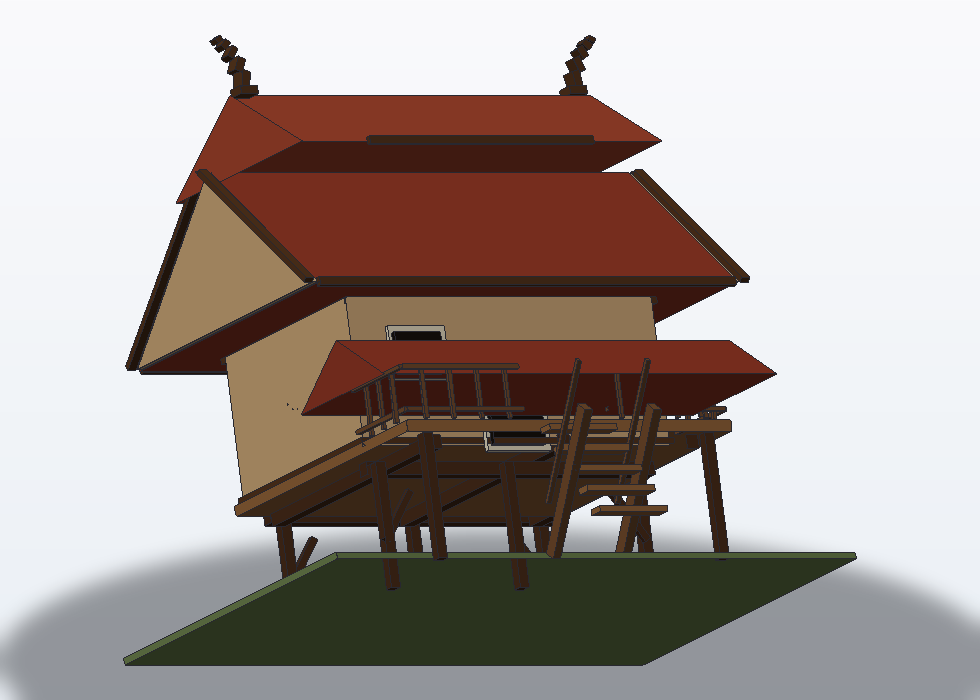
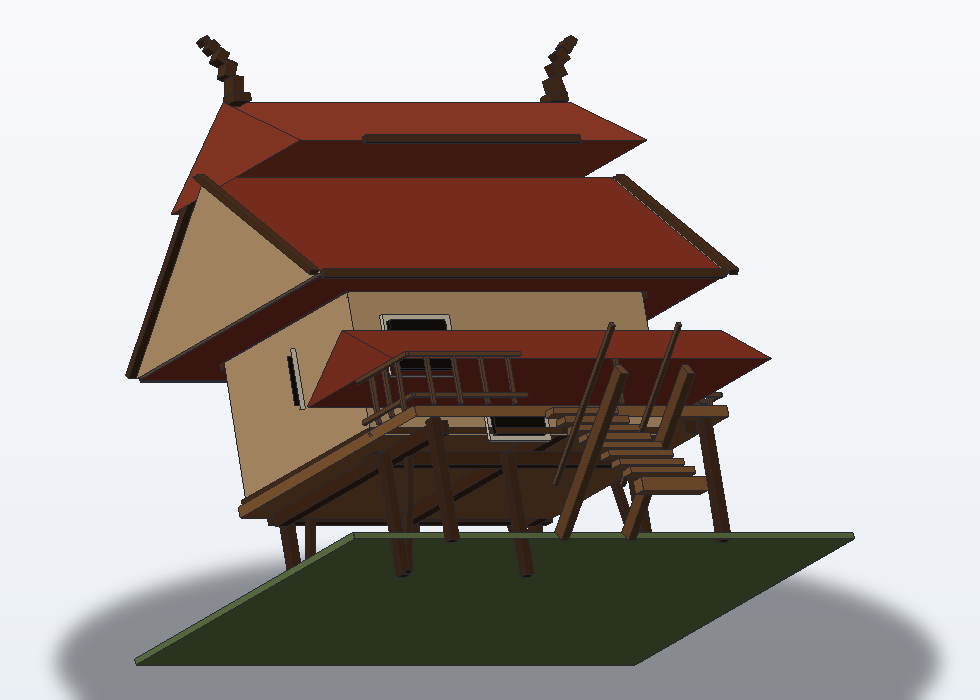
v1.0.5 — .obj มาตรฐาน (Y-up + Kd linear) + แก้บันไดที่ดูพัง
ผู้ใช้เจอตอนนำเข้า Blender จริง 2 เรื่อง (ยืนยันว่าถูกต้องทั้งคู่):
1. โมเดลนอนตะแคง — ไฟล์เป็น Z-up แต่มาตรฐาน OBJ ถือ Y-up
   → write_obj แปลง (x,y,z)→(x,z,-y) เป็นค่าปริยาย (up="Z" ถ้าต้องการไบต์ดิบ)
2. สีออกชมพูซีด — Kd เขียนเป็น sRGB แต่ Blender ถือว่า linear
   → แปลง sRGB→linear ก่อนเขียน (linear_colors=False ถ้าต้องการไบต์ดิบ)

บันได (วัดแล้วเจอบั๊ก 2 จุดของเราเอง):
- มุมไม้ข้างกลับเครื่องหมาย → เอียงสวนทางขั้นบันได
- 5 ขั้น × 0.33 = ชัน 53° (เหมือนบันไดพัง) → 9 ขั้น × 0.30 = 42.8° (run 2.40/rise 2.23)
- ขั้นล่างสุดลอย 7.8 ซม. → หนาถึงพื้น z=0
- ไม้ค้ำยัน: พาดจากโคนเสาถึงใต้คานจริง · หน้าต่าง 19%×34% ของผนัง · ช่อฟ้าหนาขึ้น

ทดสอบ: mesh_lib 67→70 (Y-up/linear + สวิตช์ปิด) · thai_house 65 (อ้างจำนวนขั้นจากปริยาย)
รูปคู่มือ 05/06/09 สร้างใหม่จากโมเดลที่แก้แล้ว · ชุดทดสอบ 11 ชุด · 800 ข้อ ผ่านทั้งหมด

diff --git a/tools/thai_house_builder.py b/tools/thai_house_builder.py
@@ -40,7 +40,7 @@ SPEC = {
     "veranda_depth": 1.80,
     "veranda_roof_height": 0.95,
     "rail_height": 0.95,
-    "stair_steps": 5,
+    "stair_steps": 9,
     "stair_width": 1.40,
     "ground": True,           # แผ่นฐานดินใต้เรือน
     # ── ความละเอียด ──
@@ -109,14 +109,20 @@ def build(spec):
         add(f"post_veranda_{i}", ml.chamfered_box(post / 2, post / 2, ph / 2, ch * 0.4,
                                                   (x, -D / 2 - vd * 0.92, ph / 2)), C["post"])
     if spec["braces"]:
-        bl = math.hypot(post * 2.6, ph * 0.42)
+        # ⚠ ไม้ค้ำยันต้อง "พาดของจริง": โคนจรดโคนเสา ปลายบนจรดใต้คาน
+        #    เดิมใช้ความยาวลอย ๆ + วางกลางอากาศ → ปลายทั้งสองข้างไม่แตะอะไรเลย
+        run_x = post * 2.2                      # ระยะราบ (จากเสาเข้าหาศูนย์กลาง)
+        run_z = ph - 0.16                       # ระยะดิ่ง (จากโคนเสาถึงใต้คาน)
+        bl = math.hypot(run_x, run_z)
+        ang = math.degrees(math.atan2(run_x, run_z))   # เอียงจากแนวตั้ง
         for j, y in enumerate(ys):
             for s in (-1, 1):
-                # เอียงในระนาบ X-Z → ต้องหมุนรอบแกน Y (ไม่ใช่ round X)
+                # เอียงในระนาบ X-Z → หมุนรอบแกน Y
                 add(f"brace_{j}_{'L' if s < 0 else 'R'}",
                     ml.translate(ml.rotate(ml.chamfered_box(post * 0.34, post * 0.34, bl / 2,
-                                                            ch * 0.3), ry=-s * 34),
-                                 s * (W * 0.42 - post * 1.4), y, ph * 0.58), C["post"])
+                                                            ch * 0.3), ry=-s * ang),
+                                 s * (W * 0.42 - post * 0.6 - run_x / 2), y,
+                                 0.08 + run_z / 2), C["post"])
 
     # ── คานรับพื้น ──
     beam_w = post * 1.3
@@ -198,8 +204,8 @@ def build(spec):
             for k in range(segs):
                 tt = k / (segs - 1)
                 ang = s * (10.0 + 46.0 * tt)             # 10° → 56°
-                seg_len = 0.30 - 0.045 * k
-                w = 0.075 - 0.007 * k
+                seg_len = 0.34 - 0.048 * k
+                w = 0.105 - 0.009 * k
                 dx = math.sin(math.radians(ang)) * seg_len * 0.5
                 dz = math.cos(math.radians(ang)) * seg_len * 0.5
                 add(f"chofa_{tag}_{k}", ml.translate(
@@ -214,17 +220,17 @@ def build(spec):
                                  (0.0, -D / 2 - 0.06, floor_top + door_h / 2)), C["opening"])
     add("door_frame", ml.chamfered_box(door_w / 2 + 0.11, 0.05, door_h / 2 + 0.11, ch * 0.4,
                                        (0.0, -D / 2 - 0.035, floor_top + door_h / 2)), C["frame"])
-    win_w, win_h = W * 0.15, wh * 0.28
+    win_w, win_h = W * 0.19, wh * 0.34
     for s, tag in ((-1, "L"), (1, "R")):
-        add(f"window_front_frame_{tag}", ml.chamfered_box(win_w / 2 + 0.10, 0.05,
-                                                          win_h / 2 + 0.10, ch * 0.4,
+        add(f"window_front_frame_{tag}", ml.chamfered_box(win_w / 2 + 0.11, 0.05,
+                                                          win_h / 2 + 0.11, ch * 0.4,
                                                           (s * W * 0.29, -D / 2 - 0.035,
                                                            floor_top + wh * 0.62)), C["frame"])
         add(f"window_front_{tag}", ml.chamfered_box(win_w / 2, 0.05, win_h / 2, 0.02,
                                                     (s * W * 0.29, -D / 2 - 0.06,
                                                      floor_top + wh * 0.62)), C["opening"])
-        add(f"window_side_frame_{tag}", ml.chamfered_box(0.05, win_w / 2 + 0.10,
-                                                         win_h / 2 + 0.10, ch * 0.4,
+        add(f"window_side_frame_{tag}", ml.chamfered_box(0.05, win_w / 2 + 0.11,
+                                                         win_h / 2 + 0.11, ch * 0.4,
                                                          (s * (W / 2 + 0.035), D * 0.12,
                                                           floor_top + wh * 0.62)), C["frame"])
         add(f"window_side_{tag}", ml.chamfered_box(0.05, win_w / 2, win_h / 2, 0.02,
@@ -268,23 +274,34 @@ def build(spec):
     steps = int(spec["stair_steps"])
     sw = float(spec["stair_width"])
     step_h = ph / steps
-    step_d = 0.33
+    step_d = 0.30
     run = step_d * steps
     y_top = ry - 0.22          # เริ่มบันไดนอกราวระเบียง
+    # ⚠ slanted_slab หมุนรอบแกน X และวัดมุมจาก "แนวนอน" — ang จึงต้องเป็น
+    #    atan2(ph, run) ตรง ๆ และต้องหมุนเป็น +ang เพื่อให้ปลาย +Y (ด้านบน) อยู่สูง
+    #    (เดิมใช้ -ang → ไม้ข้างเอียงลงสวนทางขั้นบันได ดูเหมือนบันไดพัง)
     ang = math.degrees(math.atan2(ph, run))
+    slab_ang = ang
     for i in range(steps):
         z_top = ph - (i + 1) * step_h + step_h
         y = y_top - step_d * (i + 0.5)
-        add(f"stair_{i}", ml.chamfered_box(sw / 2 * 0.94, step_d / 2 * 0.92, 0.055, ch * 0.3,
-                                           (0.0, y, z_top - 0.03)), C["deck"])
+        if i == steps - 1:
+            # ⚠ ขั้นล่างสุดต้อง "หนาถึงพื้น" (z=0) ไม่ใช่ลอยเหนือพื้น 7-8 ซม.
+            #    วัดแล้วเดิมขั้นล่างลอยอยู่ที่ z=+0.078 → เห็นเป็นช่องว่างใต้ขั้นแรก
+            half = max(0.055, z_top / 2.0)
+            add(f"stair_{i}", ml.chamfered_box(sw / 2 * 0.94, step_d / 2 * 0.92, half, ch * 0.3,
+                                               (0.0, y, z_top - half)), C["deck"])
+        else:
+            add(f"stair_{i}", ml.chamfered_box(sw / 2 * 0.94, step_d / 2 * 0.92, 0.055, ch * 0.3,
+                                               (0.0, y, z_top - 0.03)), C["deck"])
     stringer = math.hypot(ph, run)
     for s, tag in ((-1, "L"), (1, "R")):
-        add(f"stair_stringer_{tag}", ml.slanted_slab(0.15, stringer, 0.26, -ang,
+        add(f"stair_stringer_{tag}", ml.slanted_slab(0.15, stringer, 0.26, -slab_ang,
                                                      (s * (sw / 2 - 0.02),
                                                       y_top - run / 2 + 0.06, ph / 2),
                                                      chamfer=ch * 0.3), C["rail"])
         if spec.get("stair_handrails", True):
-            add(f"stair_handrail_{tag}", ml.slanted_slab(0.07, stringer * 0.96, 0.09, -ang,
+            add(f"stair_handrail_{tag}", ml.slanted_slab(0.07, stringer * 0.96, 0.09, -slab_ang,
                                                          (s * (sw / 2 - 0.02),
                                                           y_top - run / 2 + 0.06,
                                                           ph / 2 + rail_h * 0.92),

diff --git a/tools/mesh_lib.py b/tools/mesh_lib.py
@@ -443,8 +443,25 @@ def scale_part(part, factor, center=(0.0, 0.0, 0.0)):
 
 # ───────────────────────────── ส่งออก ─────────────────────────────
 
-def write_obj(path, groups, mtl_path=None):
-    """เขียนไฟล์ .obj (+ .mtl) · groups = [(ชื่อ, (verts, faces), ชื่อวัสดุ), ...]
+def _srgb_to_linear(c: float) -> float:
+    """แปลงค่าสีแบบ sRGB (ที่ตาเห็น) → linear (ที่ Blender เก็บ)
+
+    บทเรียนจริง: เขียน Kd เป็น sRGB แล้วนำเข้า Blender (ซึ่งถือว่า Kd เป็น linear)
+    ทำให้สีออก "ชมพูซีด" — ต้องแปลงก่อนเขียน
+    """
+    c = max(0.0, min(1.0, float(c)))
+    return c / 12.92 if c <= 0.04045 else ((c + 0.055) / 1.055) ** 2.4
+
+
+def write_obj(path, groups, mtl_path=None, up="Y", linear_colors=True):
+    """เขียนไฟล์ .obj (+ .mtl) · groups = [(ชื่อ, (verts, faces), วัสดุ), ...]
+
+    ค่าปริยายตั้งตามมาตรฐานของ OBJ เพื่อให้นำเข้าโปรแกรมอื่นได้ทันที:
+      - ``up="Y"``  → แปลงพิกัดจาก Z-up (ของ Blender) เป็น Y-up (มาตรฐาน OBJ)
+        ไม่งั้นโปรแกรมที่ถือว่า Y-up จะทำให้โมเดล "นอนตะแคง"
+      - ``linear_colors=True`` → เขียน Kd เป็นค่า linear (Blender ถือว่า Kd เป็น linear)
+        ไม่งั้นสีจะออกซีด/ชมพู
+    ใช้ ``up="Z", linear_colors=False`` ถ้าต้องการไบต์แบบเดียวกับข้อมูลดิบ
 
     Blender นำเข้าได้ด้วยคำสั่งเดียว: ``bpy.ops.wm.obj_import(filepath=...)``
     """
@@ -464,7 +481,12 @@ def write_obj(path, groups, mtl_path=None):
         if m and mtl_name:
             lines.append(f"usemtl {m['name']}")          # ⚠ ขาดบรรทัดนี้ = นำเข้าแล้วไม่มีวัสดุ
         for v in verts:
-            lines.append(f"v {v[0]:.6f} {v[1]:.6f} {v[2]:.6f}")
+            if up.upper() == "Y":
+                # Z-up → Y-up: หมุน -90° รอบแกน X  (x, y, z) → (x, z, -y)
+                x, y, z = v[0], v[2], -v[1]
+            else:
+                x, y, z = v[0], v[1], v[2]
+            lines.append(f"v {x:.6f} {y:.6f} {z:.6f}")
         for f in faces:
             lines.append("f " + " ".join(str(i + base) for i in f))
         base += len(verts)
@@ -473,7 +495,10 @@ def write_obj(path, groups, mtl_path=None):
         m = ["# วัสดุสำหรับ mesh_lib"]
         for mat in _unique_mats(groups):
             m.append(f"newmtl {mat['name']}")
-            m.append(f"Kd {mat['color'][0]:.4f} {mat['color'][1]:.4f} {mat['color'][2]:.4f}")
+            c = mat["color"]
+            if linear_colors:
+                c = [_srgb_to_linear(x) for x in c[:3]]
+            m.append(f"Kd {c[0]:.4f} {c[1]:.4f} {c[2]:.4f}")
             m.append("Ka 0.2 0.2 0.2")
             m.append("Ks 0.05 0.05 0.05")
             m.append("Ns 20")

diff --git a/tests/test_mesh_lib.py b/tests/test_mesh_lib.py
@@ -272,12 +272,26 @@ with tempfile.TemporaryDirectory() as td:
     check("วัสดุครบตามที่ใช้จริง (ผิว/เข็มขัด/ผ้า/ตา)",
           all(f"newmtl {k}" in m for k in mats), str([k for k in mats if f"newmtl {k}" not in m]))
     check("ทุกวัสดุมีสี Kd", m.count("Kd ") >= 4, str(m.count("Kd ")))
-    check("สีวัสดุตรงกับสเปก (ผิว 0.88 0.69 0.50)", "0.8800 0.6900 0.5000" in m)
-    # อ่านกลับ: จุดที่เขียนต้องเท่ากับจุดในเมช (ทศนิยม 6 ตำแหน่ง)
+    # ⚠ Kd ถูกเขียนเป็นค่า linear (มาตรฐานที่ Blender ใช้) ไม่ใช่ค่า sRGB ดิบ
+    lin = [ml._srgb_to_linear(c) for c in (0.88, 0.69, 0.50)]
+    check("สีวัสดุเขียนเป็น linear ตามที่ Blender คาดหวัง",
+          f"Kd {lin[0]:.4f} {lin[1]:.4f} {lin[2]:.4f}" in m,
+          f"ต้องการ Kd {lin[0]:.4f} {lin[1]:.4f} {lin[2]:.4f}")
+    check("ไม่เขียนค่า sRGB ดิบลง Kd อีก", "0.8800 0.6900 0.5000" not in m)
+    # ⚠ พิกัดถูกแปลง Z-up → Y-up (มาตรฐาน OBJ): (x, y, z) → (x, z, -y)
+    x0, y0, z0 = parts[0][1][0][0]
     first = txt[[i for i, l in enumerate(txt) if l.startswith("v ")][0]]
-    check("จุดแรกที่เขียนตรงกับเมช", first == f"v {parts[0][1][0][0][0]:.6f} "
-                                             f"{parts[0][1][0][0][1]:.6f} {parts[0][1][0][0][2]:.6f}",
-          first)
+    check("จุดแรกถูกแปลงเป็น Y-up ตามมาตรฐาน OBJ",
+          first == f"v {x0:.6f} {z0:.6f} {-y0:.6f}", first)
+    # สวิตช์ปิดได้ (สำหรับคนที่ต้องการไบต์ดิบ)
+    raw_obj = pathlib.Path(td) / "raw.obj"
+    raw_mtl = pathlib.Path(td) / "raw.mtl"
+    ml.write_obj(raw_obj, parts, mtl_path=raw_mtl, up="Z", linear_colors=False)
+    raw_txt = raw_obj.read_text(encoding="utf-8").splitlines()
+    raw_first = raw_txt[[i for i, l in enumerate(raw_txt) if l.startswith("v ")][0]]
+    check("up='Z' + linear_colors=False → ได้ไบต์ดิบเดิม",
+          raw_first == f"v {x0:.6f} {y0:.6f} {z0:.6f}", raw_first)
+    check("และ Kd กลับเป็นค่า sRGB ดิบ", "0.8800 0.6900 0.5000" in raw_mtl.read_text(encoding="utf-8"))
 
 # ===========================================================================
 section("[5] สคริปต์ฝั่ง Blender (แต่งให้เนียน) ต้องผ่านด่านและทำงานได้จริง")

diff --git a/tests/test_thai_house.py b/tests/test_thai_house.py
@@ -206,8 +206,10 @@ r_plain, _ = build_with(chofa=False, bargeboards=False, balusters=False, braces=
 check("ปิดช่อฟ้า/ป้านลม/ลูกกรง/ค้ำยัน/พื้นดิน → ชิ้นน้อยลง", r_plain["parts"] < rep["parts"],
       f"{r_plain['parts']} vs {rep['parts']}")
 check("ปิดของเสริมแล้วยังปิดสนิททุกชิ้น", r_plain["all_watertight"], str(r_plain["bad_parts"]))
-r_more, p_more = build_with(stair_steps=8)
-check("เพิ่มขั้นบันไดเป็น 8 → ชิ้นมากขึ้น", r_more["parts"] > rep["parts"], str(r_more["parts"]))
+_more_steps = int(th.SPEC["stair_steps"]) + 3      # อ้างจากค่าปริยาย ไม่ hardcode
+r_more, p_more = build_with(stair_steps=_more_steps)
+check(f"เพิ่มขั้นบันไดเป็น {_more_steps} → ชิ้นมากขึ้น",
+      r_more["parts"] > rep["parts"], f"{r_more['parts']} vs {rep['parts']}")
 r_ch, _ = build_with(chamfer=0.0)
 check("chamfer=0 → จุดน้อยลง", r_ch["vertices"] < rep["vertices"], f"{r_ch['vertices']} vs {rep['vertices']}")
 r_big, _ = build_with(width=8.0, depth=5.5)
@@ -232,7 +234,10 @@ with tempfile.TemporaryDirectory() as td:
     m = (pathlib.Path(td) / "h.mtl").read_text(encoding="utf-8")
     for key in ("post", "deck", "wall", "roof", "roof2", "trim", "frame", "opening", "rail", "ground"):
         check(f"วัสดุ «{key}» อยู่ใน .mtl", f"newmtl {key}" in m)
-    check("สีหลังคา terracotta อยู่ในไฟล์", "0.55" in m)
+    # Kd เขียนเป็น linear (0.55 sRGB → ~0.2633) ตามที่ Blender คาดหวัง
+    lin = 0.55 / 12.92 if 0.55 <= 0.04045 else ((0.55 + 0.055) / 1.055) ** 2.4
+    check("สีหลังคา terracotta อยู่ในไฟล์ (แบบ linear)",
+          f"{lin:.4f}" in m, f"ต้องการ Kd ~{lin:.4f} · พบ: {m[m.find('Kd'):m.find('Kd')+28]}")
 
 # ===========================================================================
 section("[5] สร้างซ้ำได้ผลเดิม")

diff --git a/tools/scene_builder.py b/tools/scene_builder.py
@@ -42,7 +42,9 @@ SCENE = {
         {"builder": "tree", "at": (-8.4, -7.2), "rot_z": 202.0, "scale": 0.62},
         {"builder": "tree", "at": (3.0, 7.4), "rot_z": 300.0, "scale": 0.70},   # ต้นหลังบ้าน เพิ่มมิติ
         {"builder": "dog", "at": (2.4, -7.6), "rot_z": 174.0, "scale": 1.30},
-        {"builder": "character", "at": (-3.0, -6.0), "rot_z": 168.0, "scale": 1.15},
+        # ⚠ ย้ายออกจากบันได: บันไดยาวขึ้น (9 ขั้น × 0.30 = run 2.4 ม.) หลังแก้
+        #    ความชัน 42.8° → ตัวละครเดิมยืนคร่อมปลายบันได (AABB ทับกัน)
+        {"builder": "character", "at": (-3.4, -6.9), "rot_z": 168.0, "scale": 1.15},
     ],
     # สเปกย่อยของแต่ละแบบ (ใช้ค่าเริ่มต้นที่ผ่านการตรวจมาแล้ว)
     "character_spec": {

diff --git a/blender_mcp_server.py b/blender_mcp_server.py
@@ -52,7 +52,7 @@ from mcp.types import TextContent
 
 HERE = pathlib.Path(__file__).resolve().parent
 BRIDGE_SCRIPT = HERE / "blender_bridge.py"
-SERVER_VERSION = "1.0.4"
+SERVER_VERSION = "1.0.5"
 MIN_BLENDER = (4, 0)          # ใช้ API ที่มีมาตั้งแต่ 4.0 (5.2 คือเป้าหมาย)
 # เวอร์ชันโปรโตคอลระหว่างเซิร์ฟเวอร์กับสะพาน — ต้องตรงกัน ไม่งั้นมักแปลว่า
 # add-on ที่ติดตั้งไว้เป็นเวอร์ชันเก่า (bridge เก่าคุยกับเซิร์ฟเวอร์ใหม่)

diff --git a/CHANGELOG.md b/CHANGELOG.md
@@ -10,6 +10,34 @@
 
 ## [Unreleased]
 
+## [1.0.5] — 2026-10-17
+
+### แก้ไข (Fixed)
+
+**การนำเข้า `.obj` ผิดสองเรื่อง** (เจอจากการนำเข้าใน Blender จริงโดยผู้ใช้):
+
+1. **โมเดลนอนตะแคง** — ไฟล์เขียนพิกัด Z-up ดิบ แต่มาตรฐาน OBJ ถือว่า Y-up
+   (Blender importer จึงเดา Y-up → หมุน 90° ผิด) → เขียนเป็น **Y-up** ตามมาตรฐาน
+   `(x, y, z) → (x, z, -y)` · ใช้ `up="Z"` ถ้าต้องการไบต์ดิบ
+2. **สีออกชมพูซีด** — `Kd` เขียนเป็นค่า sRGB แต่ Blender ถือ `Kd` เป็น linear
+   → แปลง sRGB→linear ก่อนเขียน (`_srgb_to_linear`) · ใช้ `linear_colors=False` ถ้าต้องการไบต์ดิบ
+
+**บันไดบ้านทรงไทยดูเหมือนพัง** (วัดและแก้ด้วยตัวเลข):
+
+- มุมไม้ข้าง (stringer) กลับเครื่องหมาย → เอียงสวนทางขั้นบันได
+- บันไดเดิม **5 ขั้น × 0.33 ม.** = ชัน 53° (เหมือนบันไดพัง) → **9 ขั้น × 0.30 ม. = 42.8°**
+  (ชันแบบเรือนไทยดั้งเดิม แต่เดินขึ้นได้จริง) · run 2.40 ม. · rise 2.23 ม.
+- ขั้นล่างสุดลอยเหนือพื้น 7.8 ซม. → ทำขั้นล่างหนาถึงพื้น z=0
+
+**อื่น ๆ**
+
+- ไม้ค้ำยันใต้พื้น: ให้พาดจากโคนเสาถึงใต้คานจริง (เดิมใช้ความยาวลอย ๆ กลางอากาศ)
+- หน้าต่าง: ใหญ่ขึ้นเป็น 19% ของความกว้างผนัง × 34% ของความสูงผนัง
+- ช่อฟ้า: หนาขึ้น/ยาวขึ้น ให้อ่านออกในภาพมุมตรง
+- ฉากภาพหมู่: ย้ายตัวละครออกจากปลายบันได (บันไดยาวขึ้นแล้วทับกัน)
+- เทสต์: `test_mesh_lib` +3 (ตรวจ Y-up/linear + สวิตช์ปิด) · `test_thai_house`
+  อ้างจำนวนขั้นจากค่าปริยายแทนการ hardcode
+
 ### เพิ่ม (Added)
 
 - `--selftest --deep` — ตรวจเพิ่มส่วนที่ต้องใช้เครือข่าย/ไฟล์จริง: บันทึก `.blend`
